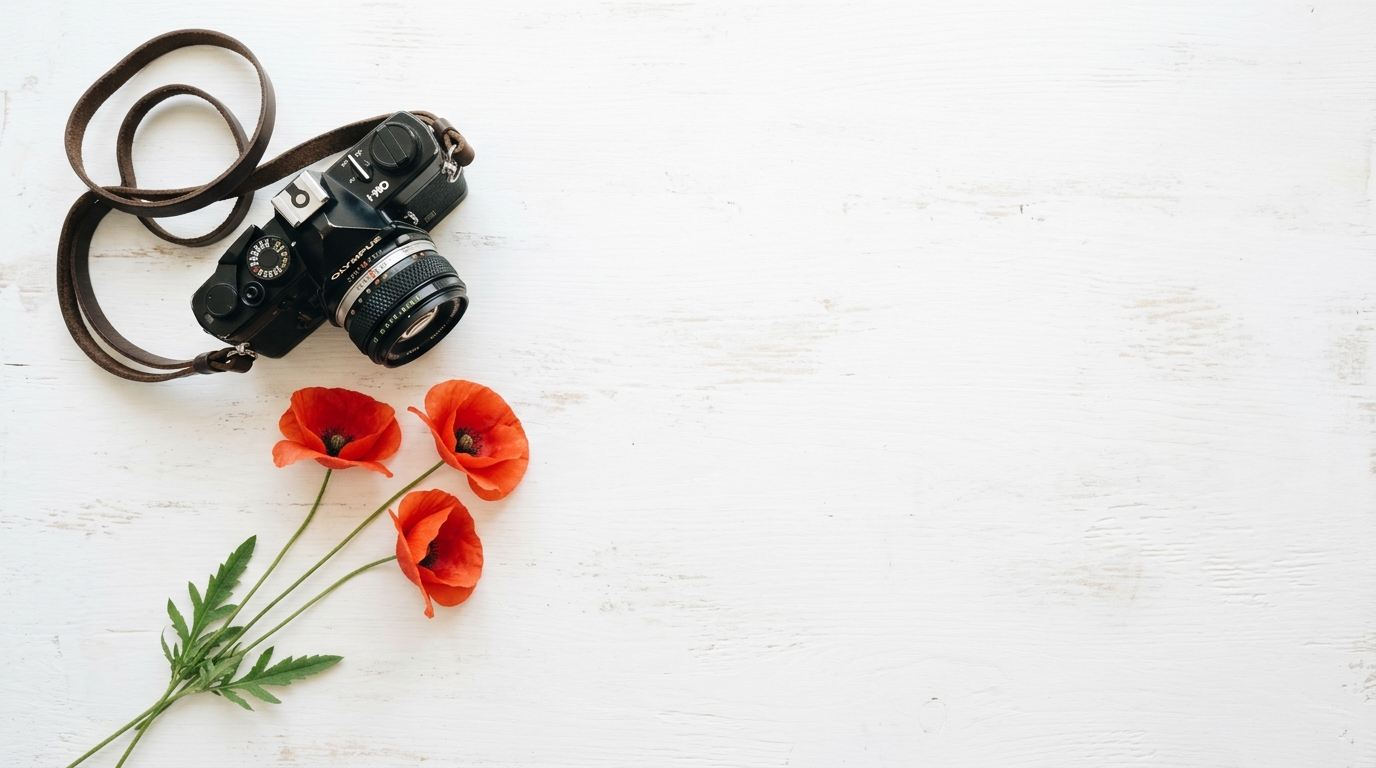
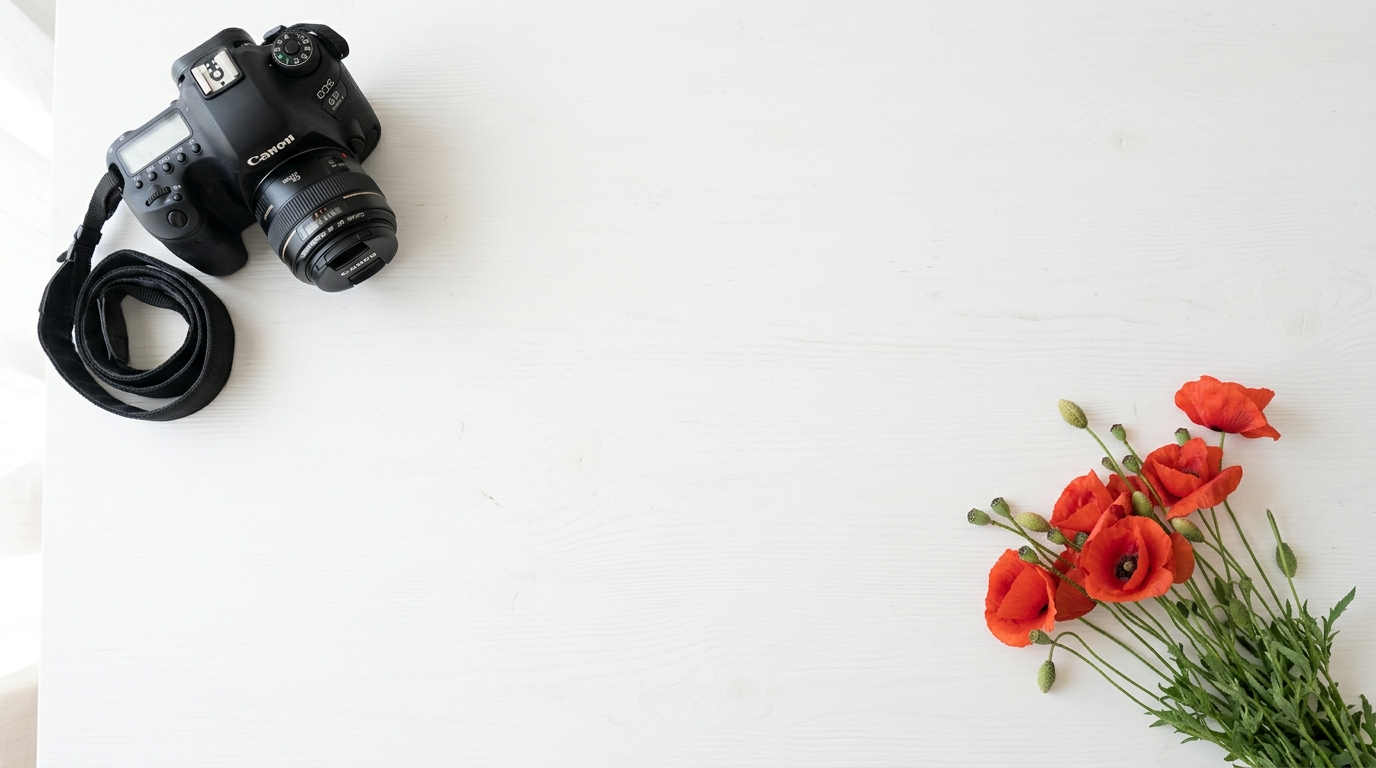
Actualizar fondo con Canon 6D Mark II y amapolas en esquinas opuestas y centrar polaroids

diff --git a/styles/main.css b/styles/main.css
@@ -655,7 +655,7 @@ footer p {
 .portfolio-desk-section {
     position: relative;
     width: 100%;
-    min-height: 80vh;
+    min-height: 88vh;
     display: flex;
     align-items: center;
     justify-content: center;
@@ -663,15 +663,15 @@ footer p {
     background-size: cover;
     background-position: center;
     background-repeat: no-repeat;
-    padding: 4rem 5%;
+    padding: 5rem 6%;
     overflow: hidden;
-    box-shadow: inset 0 10px 25px rgba(0,0,0,0.06), inset 0 -10px 25px rgba(0,0,0,0.06);
+    box-shadow: inset 0 8px 20px rgba(0,0,0,0.03), inset 0 -8px 20px rgba(0,0,0,0.03);
 }
 
 .portfolio-desk-overlay {
     position: absolute;
     top: 0; left: 0; width: 100%; height: 100%;
-    background: rgba(255, 255, 255, 0.1);
+    background: transparent;
     pointer-events: none;
 }
 
@@ -681,20 +681,20 @@ footer p {
     display: flex;
     justify-content: center;
     align-items: center;
-    gap: 3.5rem;
+    gap: 2.2rem;
     flex-wrap: wrap;
-    max-width: 1300px;
+    max-width: 980px;
     width: 100%;
     margin: 0 auto;
 }
 
 .desk-polaroid {
     background-color: #ffffff;
-    padding: 18px 18px 24px 18px;
-    width: 300px;
+    padding: 16px 16px 22px 16px;
+    width: 275px;
     border-radius: 2px;
     border: 1px solid rgba(0, 0, 0, 0.06);
-    box-shadow: 0 12px 35px rgba(0, 0, 0, 0.12), 0 3px 10px rgba(0, 0, 0, 0.05);
+    box-shadow: 0 16px 32px rgba(20, 10, 5, 0.12), 0 3px 8px rgba(0, 0, 0, 0.05);
     text-decoration: none;
     display: flex;
     flex-direction: column;
@@ -705,20 +705,20 @@ footer p {
 }
 
 .polaroid-tilt-1 {
-    transform: rotate(-3.5deg);
+    transform: rotate(-3deg);
 }
 
 .polaroid-tilt-2 {
-    transform: rotate(1.8deg) translateY(-10px);
+    transform: rotate(1.5deg) translateY(-8px);
 }
 
 .polaroid-tilt-3 {
-    transform: rotate(4deg);
+    transform: rotate(3deg);
 }
 
 .desk-polaroid:hover {
-    transform: rotate(0deg) translateY(-18px) scale(1.04);
-    box-shadow: 0 25px 50px rgba(0, 0, 0, 0.18), 0 6px 16px rgba(0, 0, 0, 0.08);
+    transform: rotate(0deg) translateY(-14px) scale(1.03);
+    box-shadow: 0 28px 48px rgba(20, 10, 5, 0.18), 0 6px 16px rgba(0, 0, 0, 0.08);
     z-index: 20;
 }
 
